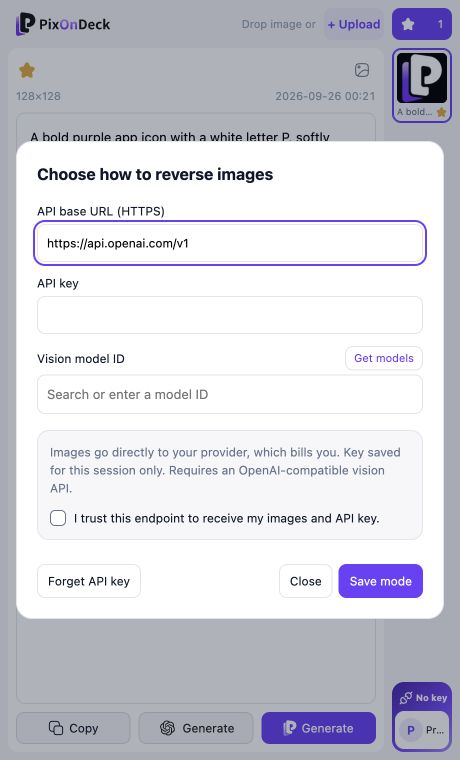
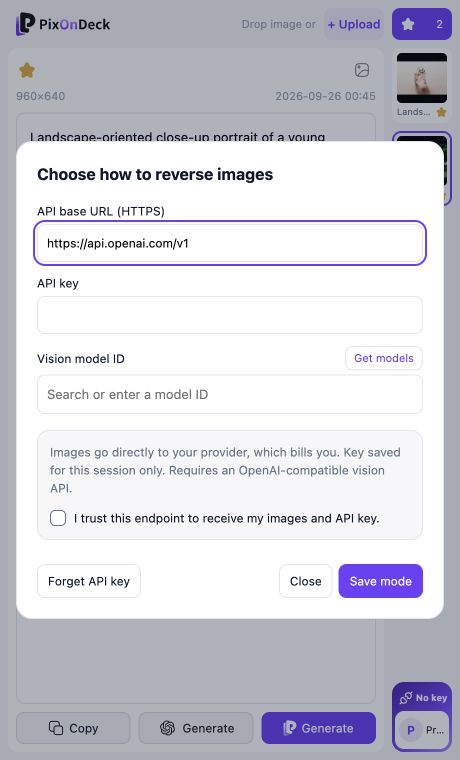
Show real photo examples and inline demo with generation handoff highlights

diff --git a/docs/examples/README.md b/docs/examples/README.md
@@ -1,0 +1,60 @@
+# Photo examples / 实拍反推示例
+
+Real stock photographs with unedited image-to-prompt outputs. No sample photograph was generated with AI.
+
+使用真实图库照片，展示未经人工改写的反推提示词；示例照片并非 AI 生成。
+
+## Photo credits / 图片来源
+
+Each linked StockSnap photo page explicitly lists **CC0**. License/source checked on 2026-09-26. These photographs retain their [CC0 1.0](https://creativecommons.org/publicdomain/zero/1.0/) dedication; the repository's Apache-2.0 license does not replace it. Attribution is included for traceability. Photos demonstrate photographic styles, not endorsement by the people, photographers, or brands shown.
+
+以下 StockSnap 原始页面均明确标注 **CC0**，于 2026-09-26 核验。图片沿用 CC0 授权，保留作者与来源便于追溯；仅作为摄影风格示例，不表示图中人物、摄影师或品牌为本产品背书。
+
+| File / 文件 | Photographer / 摄影师 | Source / 来源 |
+| --- | --- | --- |
+| [portrait.png](portrait.png) | Matt Moloney | [Outdoor portrait / 户外人像](https://stocksnap.io/photo/woman-portrait-ZG1SST226T) · [downloaded rendition](https://cdn.stocksnap.io/img-thumbs/960w/woman-portrait_ZG1SST226T.jpg) |
+| [skincare.png](skincare.png) | Jessica Weiller | [Perfume product / 香水产品](https://stocksnap.io/photo/perfume-bottle-0BZ1W3NNQK) · [downloaded rendition](https://cdn.stocksnap.io/img-thumbs/960w/perfume-bottle_0BZ1W3NNQK.jpg) |
+| [watch.png](watch.png) | Jens Kreuter | [Smartwatch product / 智能手表产品](https://stocksnap.io/photo/silver-watch-4F9UDG0I8Q) · [downloaded rendition](https://cdn.stocksnap.io/img-thumbs/960w/silver-watch_4F9UDG0I8Q.jpg) |
+
+## How these outputs were obtained / 反推方式
+
+The 960-pixel-wide stock renditions were downloaded and losslessly converted to PNG for the demo. A copy was resized to a maximum edge of 480 pixels and sent through PixOnDeck's existing reverse-prompt provider adapter. Model: `openai/gpt-5.6-sol`; prompt version: `reverse-v1`. The complete returned text is below and in [results.json](results.json). No image-generation calls were made.
+
+下载图库提供的 960 像素宽版本，无损转换为 PNG 用于演示。反推输入另缩至最长边 480 像素，通过 PixOnDeck 现有反推接口适配器获取下方完整文本；未调用生图服务。
+
+The UI screenshots replay these actual outputs in the extension's local preview. Account, task-history, and favorite state are demonstration fixtures, not a live signed-in session. Outputs are examples, not a quality benchmark; a prompt describes visible style and cannot recover an original creator's exact prompt.
+
+界面截图在插件本地预览中回放这些真实反推结果；账号、历史记录与收藏状态为演示数据，并非真实登录会话。提示词描述可见内容与风格，不代表能够还原原作者的原始提示词。
+
+## Outdoor portrait / 户外人像
+
+![Outdoor portrait / 户外人像](portrait.png)
+
+<details>
+<summary>Full reverse prompt / 完整反推提示词</summary>
+
+Landscape-oriented close-up portrait of a young woman outdoors in a leafy park, photographed at eye level with a natural 50mm-style perspective. She stands left of center in a three-quarter back pose, bare shoulder nearest the camera, turning her head to look directly into the lens. Long wavy brown hair falls over her back and shoulder; she wears a rust-orange sleeveless top and a small pearl stud earring. Her face and shoulder are sharply focused while the background is softly blurred. A paved path recedes behind her toward the right, bordered by grass, large dark tree trunks and dense green canopies; a fence and sidewalk appear along the left, with indistinct park structures in the distance. Strong warm sunlight strikes her face and shoulder from the front-left, creating bright skin highlights and defined shadows, while the path is patterned with tree shade. Natural colors, shallow depth of field, candid cinematic photography.
+
+</details>
+
+## Perfume product / 香水产品
+
+![Perfume product / 香水产品](skincare.png)
+
+<details>
+<summary>Full reverse prompt / 完整反推提示词</summary>
+
+Landscape-oriented minimalist product photograph of a single square glass perfume bottle, viewed from a slightly elevated front angle and positioned just left of center on a smooth pale blush-beige surface. The transparent faceted bottle contains peach-pink liquid and has a thick patterned glass base. A rectangular cream label with a fine border and delicate cursive writing is centered on the front. A large clear geometric crystal cap with silver-toned inner fittings sits on top; a small black ribbon with a warm tan underside is tied around the neck and extends to the right. Strong warm light from the upper left creates bright highlights, refracted patterns around the base, and a long soft-edged dark shadow stretching diagonally toward the lower right foreground. Spacious off-white background with a subtle pink gradient, shallow depth of field, refined luxury cosmetics advertising style, clean composition, no other objects.
+
+</details>
+
+## Smartwatch product / 智能手表产品
+
+![Smartwatch product / 智能手表产品](watch.png)
+
+<details>
+<summary>Full reverse prompt / 完整反推提示词</summary>
+
+Product photograph of a silver rectangular smartwatch centered on a glossy dark gray reflective tabletop, viewed straight on from a low, slightly elevated angle in landscape orientation. The watch stands upright with its woven silver mesh band curving backward into a loop; the left band segment is darker in shadow and a small clasp or loose end rises behind it. The polished metal watch case and black screen face the camera, displaying large white digital numerals “10” above “53,” rotated sideways relative to the frame, with small interface marks near the right edge. A clear inverted reflection of the illuminated face and mesh band appears directly below, partially cropped by the lower frame. Shallow depth of field, softly blurred gray background with horizontal tonal bands, dim studio lighting, cool neutral palette, subtle highlights on brushed metal and polished glass, minimalist commercial product photography.
+
+</details>

diff --git a/README.md b/README.md
@@ -12,7 +12,7 @@
 [![Chrome Web Store — coming soon](https://img.shields.io/badge/Chrome_Web_Store-Coming_soon-64748B?style=for-the-badge)](#chrome-web-store)
 [![Website](https://img.shields.io/badge/Visit-PixOnDeck-18181B?style=for-the-badge)](https://pixondeck.com/extension?utm_source=github&utm_medium=referral&utm_campaign=extension_open_source&utm_content=readme_website)
 
-Pick an image → Get a prompt → Edit, save, or keep creating.
+Pick an image → Get a prompt → Generate in **ChatGPT or PixOnDeck**.
 
 </div>
 
@@ -20,19 +20,33 @@ Pick an image → Get a prompt → Edit, save, or keep creating.
 
 [Installation](#manual-installation) · [First prompt](#create-your-first-prompt) · [Updates & help](#updates-and-troubleshooting) · [Privacy](#privacy-and-permissions) · [Developers](#for-developers)
 
+## Image-to-prompt examples
+
+Portraits, beauty products, and ecommerce photography. Real stock photos with actual image-to-prompt outputs. [View full prompts and photo credits](docs/examples/README.md).
+
+<table>
+  <tr>
+    <td width="33%" valign="top"><strong>Portrait</strong><br><br><a href="docs/examples/README.md"><img src="docs/examples/portrait.png" width="240" alt="Portrait"></a></td>
+    <td width="33%" valign="top"><strong>Perfume</strong><br><br><a href="docs/examples/README.md"><img src="docs/examples/skincare.png" width="240" alt="Perfume"></a></td>
+    <td width="33%" valign="top"><strong>Watch</strong><br><br><a href="docs/examples/README.md"><img src="docs/examples/watch.png" width="240" alt="Watch"></a></td>
+  </tr>
+</table>
+
 ## Product screenshots
 
-Actual client UI with local demo data and an edited sample prompt. These screenshots illustrate the interface, not model quality or real account activity. Click an image to enlarge.
+Actual client UI replaying the example prompts above. Account and favorites are local demo states. Click an image to enlarge.
 
 <table>
   <tr>
     <td width="33%" valign="top"><strong>Edit a prompt</strong><br><br><a href="docs/screenshots/workspace.png"><img src="docs/screenshots/workspace.png" alt="Edit a prompt" width="300"></a></td>
-    <td width="33%" valign="top"><strong>Saved prompts</strong><br><br><a href="docs/screenshots/saved-prompts.png"><img src="docs/screenshots/saved-prompts.png" alt="Saved prompts" width="300"></a></td>
-    <td width="33%" valign="top"><strong>Bring your own API key</strong><br><br><a href="docs/screenshots/byok-settings.png"><img src="docs/screenshots/byok-settings.png" alt="Bring your own API key" width="300"></a></td>
+    <td width="33%" valign="top"><strong>Prompt favorites</strong><br><br><a href="docs/screenshots/saved-prompts.png"><img src="docs/screenshots/saved-prompts.png" alt="Prompt favorites" width="300"></a></td>
+    <td width="33%" valign="top"><strong>BYOK</strong><br><br><a href="docs/screenshots/byok-settings.png"><img src="docs/screenshots/byok-settings.png" alt="BYOK" width="300"></a></td>
   </tr>
 </table>
 
-[Watch the short walkthrough](src/assets/welcome-demo.mp4) — an illustrated interaction, not a recorded model benchmark.
+[![PixOnDeck workflow demo](docs/screenshots/walkthrough.gif)](src/assets/welcome-demo.mp4)
+
+*Workflow animation · Click to view the MP4.*
 
 ## Manual installation
 
@@ -65,7 +79,7 @@ These steps follow [Chrome’s official unpacked-extension guide](https://develo
 1. Open the PixOnDeck side panel and **sign in**. Both processing modes currently require a PixOnDeck account.
 2. **Upload an image**, or select an image on a normal webpage using its image action or right-click menu. Refresh pages that were already open before installation.
 3. **Choose a mode** in the account menu and start the task.
-4. **Edit the result**, then copy it, save it, or use an available generation action.
+4. **Edit the result**, add it to your favorites, or click **Generate** to bring the prompt into **ChatGPT or PixOnDeck** and continue creating. Confirm generation in the destination app; very long ChatGPT prompts are copied for pasting.
 
 | Mode | What you need | Billing |
 | --- | --- | --- |
@@ -79,9 +93,10 @@ BYOK settings are in the account menu. An image-to-prompt result is an AI interp
 | Feature | What it helps you do |
 | --- | --- |
 | Web image capture | Start from a reference without leaving the page |
+| Generate in ChatGPT or PixOnDeck | Bring your edited prompt and aspect ratio into your next creation with one click |
 | Editable prompts | Adjust the result to suit your next idea |
 | BYOK support | Use a compatible vision provider of your choice |
-| Recent tasks and cloud favorites | Revisit your work and keep useful prompts |
+| Recent tasks and prompt favorites | Revisit your work and keep useful prompts |
 | Open client source | Inspect image preparation, permissions and request handling |
 
 ## Chrome Web Store

diff --git a/docs/screenshots/README.md b/docs/screenshots/README.md
@@ -1,7 +1,8 @@
 # Screenshot provenance
 
-Captured from the repository's local fixture preview at a 460 × 760 CSS-pixel viewport to represent the extension side panel. The client UI is unmodified. The sample prompt was edited through the UI, favorites use the fixture API, and BYOK credentials are empty. Images use the bundled PixOnDeck icon. These are illustrative demo states, not real account activity or model benchmarks.
+Captured from the unmodified extension client in a local preview at a 460 × 760 CSS-pixel viewport representing the Chrome side panel. The screenshots replay actual reverse-prompt outputs for the CC0 stock photographs in [examples](../examples/README.md). Account, task-history and favorites use local fixtures, not a live signed-in account. BYOK credentials are empty.
 
-- workspace.png: editable prompt and recent tasks.
-- saved-prompts.png: saved prompt view.
+- workspace.png: portrait prompt, recent photos, and ChatGPT / PixOnDeck generation buttons.
+- saved-prompts.png: prompt favorites using the local fixture API.
 - byok-settings.png: provider configuration with no API key entered.
+- walkthrough.gif: 12 fps GIF conversion of the existing 6-second [welcome animation](../../src/assets/welcome-demo.mp4), not a recording of a live model run.

diff --git a/BRANDING.md b/BRANDING.md
@@ -10,3 +10,7 @@ redistributing and documenting this client. They are not licensed as a standalon
 stock-media or branding collection. Modified public distributions should use a
 name and visual identity that clearly distinguish them from the official product.
 This policy does not add restrictions to the Apache-licensed source code.
+
+The stock photographs under `docs/examples/` retain their CC0 dedication;
+see [photo credits and provenance](docs/examples/README.md). The PixOnDeck
+branding policy does not apply to those third-party photographs.
